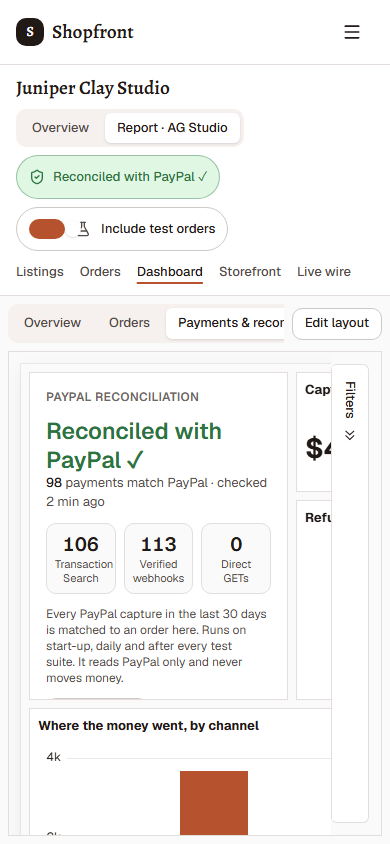
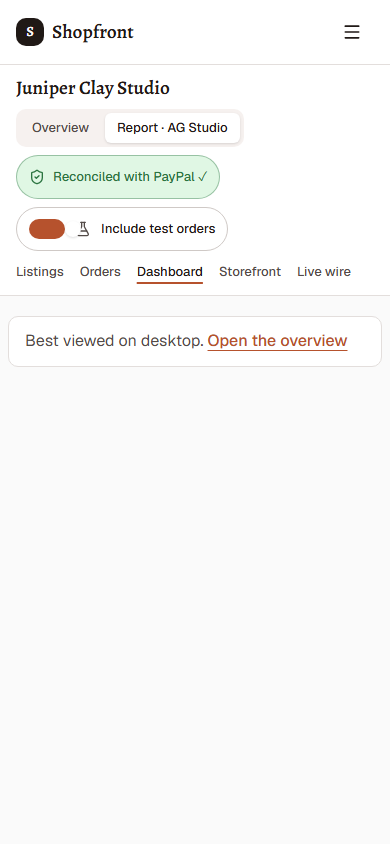
docs(progress): steps 1-2 on Render, ag-checks 9/9 (D-103)

diff --git a/docs/PROGRESS.md b/docs/PROGRESS.md
@@ -231,3 +231,17 @@ One 5-line report per item: done, tests, screenshots, risks, next. Newest last.
 - **Screenshots:** none (docs).
 - **Risks:** the sandbox-validation table is a snapshot; rerun the generator after the Nov 4–5 regression.
 - **Next:** the Nov 4–5 full regression (including phase6 #6 on a local replay server), DEMO-SCRIPT, review v3 pack.
+
+## Step 1: Studio money shows $33.00 (2026-10-25, D-103)
+- **Done:** the "$33.0" was clipping, not formatting: AG Grid 36's overlay scroll strip (opaque, 16 px) covered the last column's final digit when the browser uses overlay scrollbars. One CSS rule makes it transparent (Studio and Overview grids). Money fields now use Studio's format string `"$#,##0.00"`. The new AG key (expires 1 Dec) is confirmed on Render (hash match, L1 PASS); OWNER-TODO #7a updated.
+- **Tests:** `ag-checks` P1–P5 now also fail on any dollar amount without two decimals or with something painted over it: red on the old build (P2, P3), green on Render (`c973b70`). New unit test pins every `*_usd` field (198 unit tests).
+- **Screenshots:** `docs/screenshots/ag/` (P1–P5 at desktop, 1920, mobile).
+- **Risks:** none new; the key still needs the extension for Dec 1–15 (owner, Nov 25).
+- **Next:** step 2.
+
+## Step 2: phone note on the Report tab (2026-10-25, D-103)
+- **Done:** under 768 px the Report tab shows one line, "Best viewed on desktop. Open the overview"; Studio is neither downloaded nor mounted. A window that narrows after Studio opened hides it without losing edits.
+- **Tests:** `ag-checks` P6 on Render: one line at 390 px, the link lands on the Overview, no Studio element or API; L1–L3 and P1–P5 still pass (9/9); reconcile PASS (119 matched, 0 mismatches).
+- **Screenshots:** `docs/screenshots/ag/P6-phone-note-mobile.png`; the P* mobile shots now show the note.
+- **Risks:** none.
+- **Next:** step 3, the final full regression and the feature freeze.
